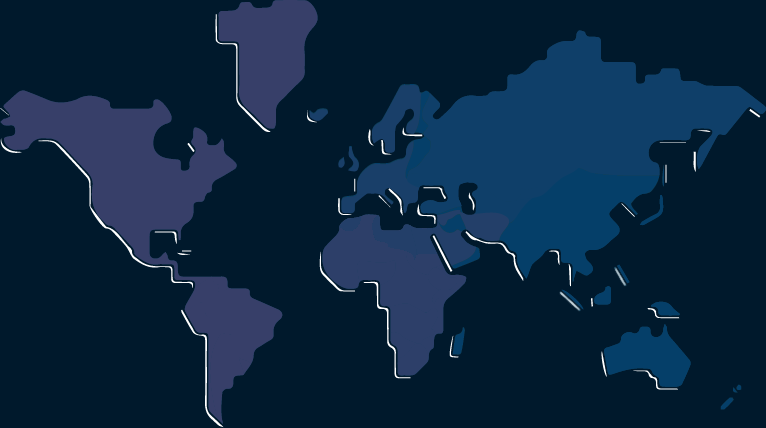
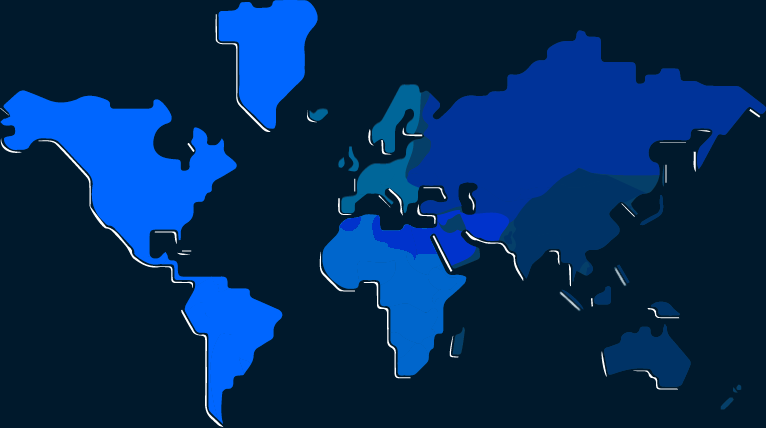
p3: same

diff --git a/project3/javascript/script.js b/project3/javascript/script.js
@@ -193,14 +193,7 @@ function checkOverlap() {
 
   // background RGBA is 0, 44, 25, 255, so if the data matches this, the player is not overlapping a country.
   // but which one?
-  if (imgData.data[0] === 0) {
-    for (let i = 0; i < 6; i++) {
-      country[i].visible = false;
-    }
-    lag = 2.5;
-  }
-
-  else if (imgData.data[0] <= 10){
+   if (imgData.data[0] === 0 && imgData.data[1] === 51 && imgData.data[2] === 102){
     for (let i = 0; i < 6; i++) {
       country[i].visible = false;
     }
@@ -208,7 +201,7 @@ function checkOverlap() {
     lag = country[0].lag;
   }
 
-  else if (imgData.data[0] <= 20){
+  else if (imgData.data[0] === 0 && imgData.data[1] === 51 && imgData.data[2] === 153){
     for (let i = 0; i < 6; i++) {
       country[i].visible = false;
     }
@@ -216,7 +209,7 @@ function checkOverlap() {
     lag = country[1].lag;
   }
 
-  else if (imgData.data[0] <= 30){
+  else if (imgData.data[0] === 0 && imgData.data[1] === 102 && imgData.data[2] === 153){
     for (let i = 0; i < 6; i++) {
       country[i].visible = false;
     }
@@ -224,7 +217,7 @@ function checkOverlap() {
     lag = country[2].lag;
   }
 
-  else if (imgData.data[0] <= 40){
+  else if (imgData.data[0] === 0 && imgData.data[1] === 51 && imgData.data[2] === 204){
     for (let i = 0; i < 6; i++) {
       country[i].visible = false;
     }
@@ -232,7 +225,7 @@ function checkOverlap() {
     lag = country[3].lag;
   }
 
-  else if (imgData.data[0] <= 50){
+  else if (imgData.data[0] === 0 && imgData.data[1] === 102 && imgData.data[2] === 204){
     for (let i = 0; i < 6; i++) {
       country[i].visible = false;
     }
@@ -240,7 +233,7 @@ function checkOverlap() {
     lag = country[4].lag;
   }
 
-  else if (imgData.data[0] <= 60){
+  else if (imgData.data[0] === 0 && imgData.data[1] === 102 && imgData.data[2] === 255){
     for (let i = 0; i < 6; i++) {
       country[i].visible = false;
     }
